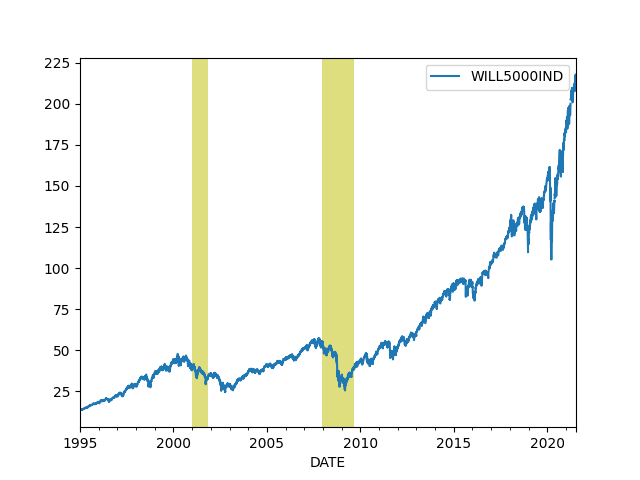
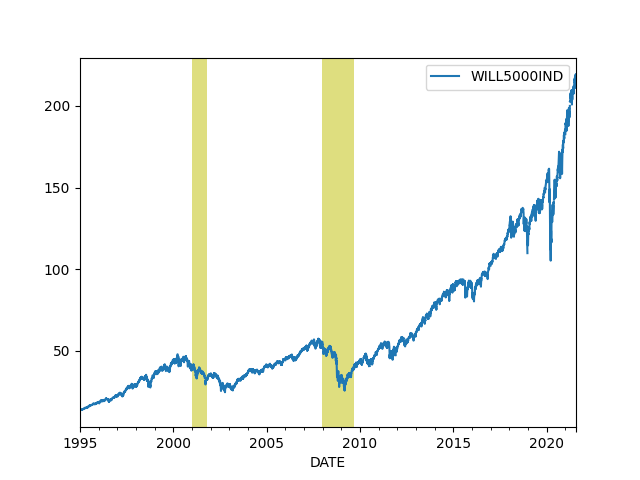
-

diff --git a/en/README.md b/en/README.md
@@ -7,73 +7,69 @@ New Address is Here
 
 ---
 
-Why? There are TCO benefits, training, maintanance all become easier
-if one optimal tech can handle all.
 
-Plus there isn't enough lithium to go around. That is an hard limit
-that cannot be overcome. 
+"@josheidelson
 
----
+Breaking: Labor Board hearing officer is recommending the Amazon union
+vote be thrown out and a new election be held in Bessemer, Alabama"
 
-H2 can do trucks, ships, airplanes.. And the solution that can handle
-all cases, will displace one that can handle a few cases.
-
-<iframe width="340"  src="https://www.youtube.com/embed/sZlHFKaKJU0?start=152&end=373" title="YouTube video player" frameborder="0" allow="accelerometer; autoplay; clipboard-write; encrypted-media; gyroscope; picture-in-picture" allowfullscreen></iframe>
 
 ---
 
-TDB: "Sen. Mitch McConnell (R-KY) is apparently tired of his GOP
-colleagues bashing COVID-19 vaccines—and he’s planning to act on it at
-home. The Republican lawmaker used funds from his re-election campaign
-to purchase ads on more than 100 Kentucky radio stations encouraging
-people to get the vaccine"
+Qatar and Egypt are buddy buddy again..?
+
+"@MiddleEastMnt
+
+Qatar’s Al Jazeera television broadcasts live from Egypt after
+8-year hiatus"
 
 ---
 
-The Daily Beast: "New Dem Ad Campaign Tells Sen. Sinema: You’re ‘the
-Problem’.. Sen. Kyrsten Sinema is facing a fresh round of attacks from
-progressives aiming to turn up the pressure on the moderate Democrat
-back home and push her leftward on their most burning issues"
+Frigate.. for anti-sub work surely
+
+Jane's Defense: "German frigate begins seven-month deployment to Indo-Pacific region"
 
 ---
 
-F24: "French leftists unite with Greens to avoid 2022 repeat of the
-Macron-Le Pen presidential duel"
+Is *Starship Troopers* satire..? Sort of. It starts out with some
+post-Vietnam, anti-war feel, but ends with a World War II bruhaha, ie
+*Band of Brothers*.. By the end, the viewer will feel happy the way
+the heroes moved up the ranks, former drill sargeant saluting his
+student, a "brain bug" having been cought and more "ass kicking" on
+the way.   
 
 ---
 
-F24: "Italy and France see rise in vaccinations despite resistance to
-Covid-19 'health pass'"
+Wilshire is at 218. Overbought all around.
 
 ---
 
-For all time, it is US, China, UK, Japan, Germany, India, Russia,
-France, Canada. These countries caused the most carbon pollution. They
-are *guilty*. They caused our current predicament. Now they need to
-bend over backwards to help the rest.
+```python
+r1 = yf.get_financials("AMZN")
+r2 = yf.get_financials("MSFT")
+r1["Enterprise Value/EBITDA"], r2["Enterprise Value/EBITDA"]
+```
+
+```text
+Out[1]: ('28.67', '25.90')
+```
+
+Enterprise Value/EBITDA values over 10 indicates bubble, no?
 
 ---
 
-For 2014 China was the [worst](2021/07/historical-carbon-emissions.md)
-polluter. 
-
-"Behind the Rise of U.S. Solar Power, a Mountain of Chinese
-Coal.. Reliance on coal-fired electricity to produce solar panels
-raises concerns in the West"
+New scraper [code](yf.py)
 
 ---
 
-"A Popular Bet on Chinese Growth Is Falling Out of Favor"
+Comp financial statement scraper from last year stopped working? It
+seems every year I am rewriting this thing..
 
 ---
 
-Great that Google shares GDELT files.. But is it AI? Sadly no. The
-task is excruciatingly simple, look at a text, figure out who did what
-to whom, where. Yet GDT fails in these tasks at times that are
-laughable to a human... I look at the doc it clearly say attack was in
-Libya. GDT assigns N. Syria. Attacker is IS, it says AFG, as in
-gov. You know the shit is state-of-the-art. It's Google! Their *main
-job* is NLP. Yet SOTA aint good enough.
+🤣 
+
+<blockquote class="twitter-tweet"><p lang="en" dir="ltr">when is half-life 4 coming out</p>&mdash; Riker Googling (@RikerGoogling) <a href="https://twitter.com/RikerGoogling/status/1421933894975197185?ref_src=twsrc%5Etfw">August 1, 2021</a></blockquote> <script async src="https://platform.twitter.com/widgets.js" charset="utf-8"></script>
 
 ---
 

diff --git a/en/tweets/2021/week31.md b/en/tweets/2021/week31.md
@@ -1,5 +1,75 @@
 # Week 31
 
+Why? There are TCO benefits, training, maintanance all become easier
+if one optimal tech can handle all.
+
+Plus there isn't enough lithium to go around. That is an hard limit
+that cannot be overcome. 
+
+---
+
+H2 can do trucks, ships, airplanes.. And the solution that can handle
+all cases, will displace one that can handle a few cases.
+
+<iframe width="340"  src="https://www.youtube.com/embed/sZlHFKaKJU0?start=152&end=373" title="YouTube video player" frameborder="0" allow="accelerometer; autoplay; clipboard-write; encrypted-media; gyroscope; picture-in-picture" allowfullscreen></iframe>
+
+---
+
+TDB: "Sen. Mitch McConnell (R-KY) is apparently tired of his GOP
+colleagues bashing COVID-19 vaccines—and he’s planning to act on it at
+home. The Republican lawmaker used funds from his re-election campaign
+to purchase ads on more than 100 Kentucky radio stations encouraging
+people to get the vaccine"
+
+---
+
+The Daily Beast: "New Dem Ad Campaign Tells Sen. Sinema: You’re ‘the
+Problem’.. Sen. Kyrsten Sinema is facing a fresh round of attacks from
+progressives aiming to turn up the pressure on the moderate Democrat
+back home and push her leftward on their most burning issues"
+
+---
+
+F24: "French leftists unite with Greens to avoid 2022 repeat of the
+Macron-Le Pen presidential duel"
+
+---
+
+F24: "Italy and France see rise in vaccinations despite resistance to
+Covid-19 'health pass'"
+
+---
+
+For all time, it is US, China, UK, Japan, Germany, India, Russia,
+France, Canada. These countries caused the most carbon pollution. They
+are *guilty*. They caused our current predicament. Now they need to
+bend over backwards to help the rest.
+
+---
+
+For 2014 China was the [worst](2021/07/historical-carbon-emissions.md)
+polluter. 
+
+"Behind the Rise of U.S. Solar Power, a Mountain of Chinese
+Coal.. Reliance on coal-fired electricity to produce solar panels
+raises concerns in the West"
+
+---
+
+"A Popular Bet on Chinese Growth Is Falling Out of Favor"
+
+---
+
+Great that Google shares GDELT files.. But is it AI? Sadly no. The
+task is excruciatingly simple, look at a text, figure out who did what
+to whom, where. Yet GDT fails in these tasks at times that are
+laughable to a human... I look at the doc it clearly say attack was in
+Libya. GDT assigns N. Syria. Attacker is IS, it says AFG, as in
+gov. You know the shit is state-of-the-art. It's Google! Their *main
+job* is NLP. Yet SOTA aint good enough.
+
+---
+
 Yahoo! News: "If she filled out and submitted a [req for permission],
 Biles was covered to continue taking Ritalin in Tokyo without fear of
 arrest. So while it's impossible to determine what has caused Biles'

diff --git a/en/tweets/2021/week29.md b/en/tweets/2021/week29.md
@@ -265,33 +265,6 @@ the whole thing..
 
 ---
 
-EPA: "Methane is also a greenhouse gas (GHG), so its presence in the
-atmosphere affects the earth's temperature and climate system. Methane
-is emitted from a variety of anthropogenic (human-influenced) and
-natural sources. ... Methane is more than 25 times as potent as carbon
-dioxide at trapping heat in the atmosphere"
-
----
-
-BTW all carbon, or GHG emitting rocket fuels need to be banned, eg
-methane. New Shep used liquid H2 but I believe their bigger rocket,
-and some others in the same scale will use methane - not good.
-
----
-
-BO demonstrated some capability, more than Virgin perhaps. New Shep
-took off on its own, wout riding any other vehicle, then the booster
-part returned.. There are more pieces here that can be built up for
-grander goals.
-
----
-
-Blue Origin rocket used liquid H2. Clean fuel.
-
-No you cannot go to space with batteries. Inferior technology.
-
----
-
 Good to know
 
 JH: "A fluid may appear in the form of a liquid like water or a gas
@@ -542,6 +515,33 @@ bad. Policy judgement, not so much.
 Adams was beaten by the police when young. Dam. 
 
 [Link](https://www.facebook.com/abcplanetamerica/videos/extended-interview-eric-adams/574640500142229/)
+
+---
+
+EPA: "Methane is also a greenhouse gas (GHG), so its presence in the
+atmosphere affects the earth's temperature and climate system. Methane
+is emitted from a variety of anthropogenic (human-influenced) and
+natural sources. ... Methane is more than 25 times as potent as carbon
+dioxide at trapping heat in the atmosphere"
+
+---
+
+BTW all carbon, or GHG emitting rocket fuels need to be banned, eg
+methane. New Shep used liquid H2 but I believe their bigger rocket,
+and some others in the same scale will use methane - not good.
+
+---
+
+BO demonstrated some capability, more than Virgin perhaps. New Shep
+took off on its own, wout riding any other vehicle, then the booster
+part returned.. There are more pieces here that can be built up for
+grander goals.
+
+---
+
+Blue Origin rocket used liquid H2. Clean fuel.
+
+No you cannot go to space with batteries. Inferior technology.
 
 ---
 

diff --git a/en/2019/05/stats.md b/en/2019/05/stats.md
@@ -505,10 +505,10 @@ plt.savefig('wilshire.png')
 ```text
             WILL5000IND
 DATE                   
-2021-07-13       216.67
-2021-07-14       216.53
-2021-07-15       215.84
-2021-07-16       214.25
+2021-07-27       218.07
+2021-07-28       218.28
+2021-07-29       219.23
+2021-07-30       217.95
 ```
 
 ![](wilshire.png)
